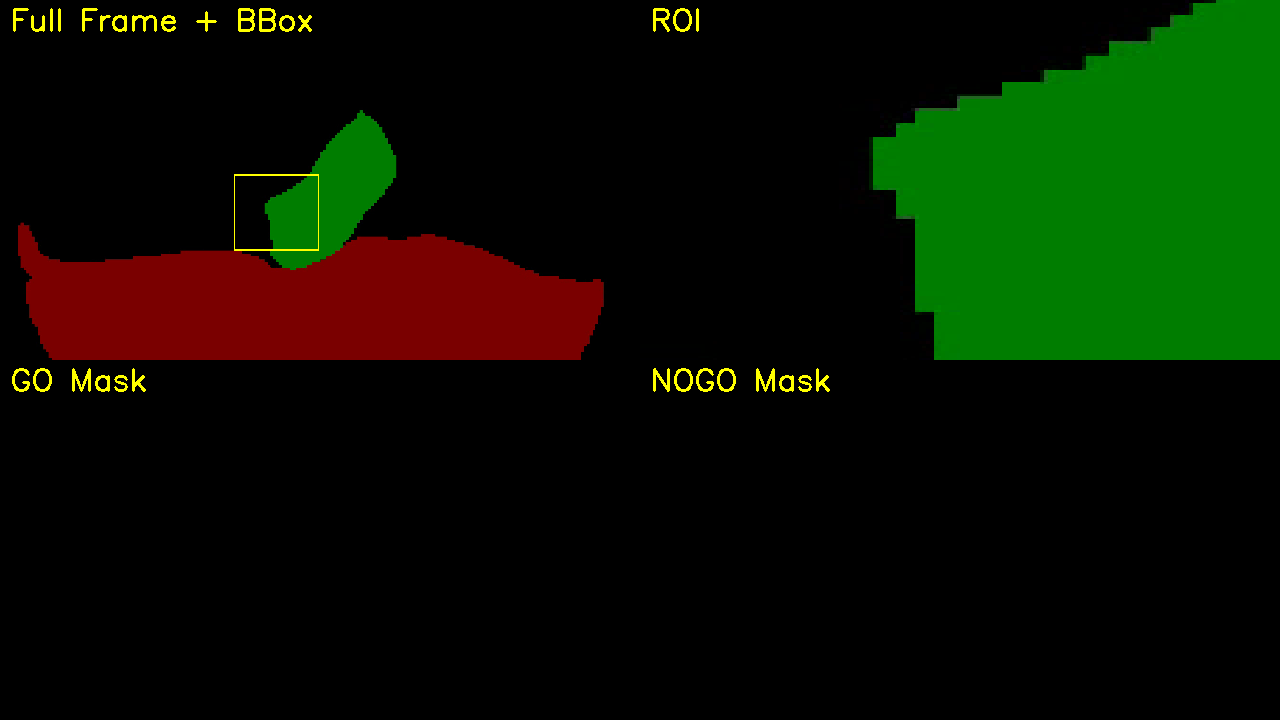
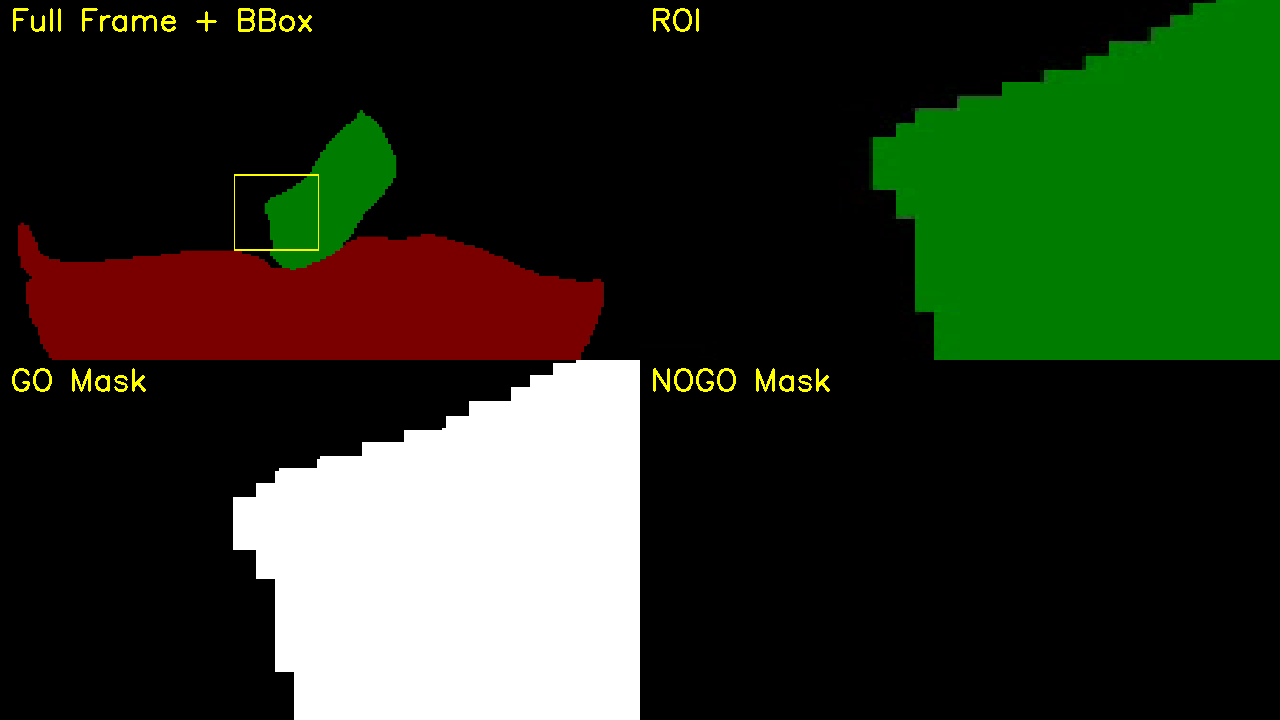
update

Changed region(s): [[0.1562, 0.4889, 0.5, 1.0]]

diff --git a/remake/debug_gng_analysis.py b/remake/debug_gng_analysis.py
@@ -7,6 +7,7 @@ import os
 import cv2
 import numpy as np
 
+
 def visualize_frame_analysis(json_path, gng_video_path, frame_to_debug):
     """_summary_
 
@@ -15,15 +16,20 @@ def visualize_frame_analysis(json_path, gng_video_path, frame_to_debug):
         gng_video_path (_type_): _description_
         frame_to_debug (_type_): _description_
     """
-    # BGR color values from user
-    GO_COLOR = np.array([19, 105, 6])
-    NOGO_COLOR = np.array([15, 22, 134])
+    # Define HSV color ranges for green and red
+    LOWER_GREEN_HSV = np.array([40, 100, 50])
+    UPPER_GREEN_HSV = np.array([80, 255, 255])
+    LOWER_RED_HSV1 = np.array([0, 100, 50])
+    UPPER_RED_HSV1 = np.array([10, 255, 255])
+    LOWER_RED_HSV2 = np.array([160, 100, 50])
+    UPPER_RED_HSV2 = np.array([179, 255, 255])
+
     TARGET_WIDTH = 1280
     TARGET_HEIGHT = 720
 
     # 1. Load JSON and find the specific frame's data
     try:
-        with open(json_path, 'r') as f:
+        with open(json_path, "r") as f:
             data = json.load(f)
     except FileNotFoundError:
         print(f"Error: JSON file not found at {json_path}")
@@ -38,7 +44,7 @@ def visualize_frame_analysis(json_path, gng_video_path, frame_to_debug):
                 break
         if bbox_rel:
             break
-    
+
     if not bbox_rel:
         print(f"Error: Frame {frame_to_debug} not found in JSON file.")
         return
@@ -59,60 +65,93 @@ def visualize_frame_analysis(json_path, gng_video_path, frame_to_debug):
     # 3. Perform resizing/padding logic
     gng_native_width = int(cap.get(cv2.CAP_PROP_FRAME_WIDTH))
     gng_native_height = int(cap.get(cv2.CAP_PROP_FRAME_HEIGHT))
-    needs_resize = (gng_native_height != TARGET_HEIGHT or gng_native_width != TARGET_WIDTH)
-    
+    needs_resize = (
+        gng_native_height != TARGET_HEIGHT or gng_native_width != TARGET_WIDTH
+    )
+
     final_gng_frame = None
     if needs_resize:
         aspect_ratio = gng_native_width / gng_native_height
         new_h = TARGET_HEIGHT
         new_w = int(new_h * aspect_ratio)
-        resized = cv2.resize(frame_from_video, (new_w, new_h), interpolation=cv2.INTER_NEAREST)
+        resized = cv2.resize(
+            frame_from_video, (new_w, new_h), interpolation=cv2.INTER_NEAREST
+        )
         canvas = np.zeros((TARGET_HEIGHT, TARGET_WIDTH, 3), dtype=np.uint8)
         x_offset = (TARGET_WIDTH - new_w) // 2
-        canvas[:, x_offset:x_offset+new_w] = resized
+        canvas[:, x_offset : x_offset + new_w] = resized
         final_gng_frame = canvas
     else:
         final_gng_frame = frame_from_video
 
     # 4. Perform analysis
-    x = int(bbox_rel['x'] * TARGET_WIDTH)
-    y = int(bbox_rel['y'] * TARGET_HEIGHT)
-    w = int(bbox_rel['w'] * TARGET_WIDTH)
-    h = int(bbox_rel['h'] * TARGET_HEIGHT)
-    
-    bbox_roi = final_gng_frame[y:y+h, x:x+w]
-    
-    go_mask = cv2.inRange(bbox_roi, GO_COLOR, GO_COLOR)
-    nogo_mask = cv2.inRange(bbox_roi, NOGO_COLOR, NOGO_COLOR)
+    x = int(bbox_rel["x"] * TARGET_WIDTH)
+    y = int(bbox_rel["y"] * TARGET_HEIGHT)
+    w = int(bbox_rel["w"] * TARGET_WIDTH)
+    h = int(bbox_rel["h"] * TARGET_HEIGHT)
+
+    bbox_roi = final_gng_frame[y : y + h, x : x + w]
+
+    # Convert ROI to HSV and create masks
+    hsv_roi = cv2.cvtColor(bbox_roi, cv2.COLOR_BGR2HSV)
+    go_mask = cv2.inRange(hsv_roi, LOWER_GREEN_HSV, UPPER_GREEN_HSV)
+    red_mask1 = cv2.inRange(hsv_roi, LOWER_RED_HSV1, UPPER_RED_HSV1)
+    red_mask2 = cv2.inRange(hsv_roi, LOWER_RED_HSV2, UPPER_RED_HSV2)
+    nogo_mask = cv2.bitwise_or(red_mask1, red_mask2)
 
     go_pixels = cv2.countNonZero(go_mask)
     nogo_pixels = cv2.countNonZero(nogo_mask)
-    
+
     print(f"--- Debugging Frame {frame_to_debug} ---")
     print(f"Bounding Box (x,y,w,h): ({x}, {y}, {w}, {h})")
     print(f"ROI Shape: {bbox_roi.shape}")
-    print(f"GO color (BGR): {GO_COLOR}, Pixels found: {go_pixels}")
-    print(f"NOGO color (BGR): {NOGO_COLOR}, Pixels found: {nogo_pixels}")
+    print(f"Using HSV ranges for detection.")
+    print(f"GO pixels found: {go_pixels}")
+    print(f"NOGO pixels found: {nogo_pixels}")
 
     # 5. Create visualization
     vis_main = final_gng_frame.copy()
-    cv2.rectangle(vis_main, (x, y), (x+w, y+h), (0, 255, 255), 2) # Yellow box
+    cv2.rectangle(vis_main, (x, y), (x + w, y + h), (0, 255, 255), 2)  # Yellow box
 
     vis_h, vis_w = TARGET_HEIGHT // 2, TARGET_WIDTH // 2
-    
-    vis_main_small = cv2.resize(vis_main, (vis_w, vis_h), interpolation=cv2.INTER_NEAREST)
-    cv2.putText(vis_main_small, "Full Frame + BBox", (10, 30), cv2.FONT_HERSHEY_SIMPLEX, 1, (0, 255, 255), 2)
+
+    vis_main_small = cv2.resize(
+        vis_main, (vis_w, vis_h), interpolation=cv2.INTER_NEAREST
+    )
+    cv2.putText(
+        vis_main_small,
+        "Full Frame + BBox",
+        (10, 30),
+        cv2.FONT_HERSHEY_SIMPLEX,
+        1,
+        (0, 255, 255),
+        2,
+    )
 
     vis_roi = cv2.resize(bbox_roi, (vis_w, vis_h), interpolation=cv2.INTER_NEAREST)
     cv2.putText(vis_roi, "ROI", (10, 30), cv2.FONT_HERSHEY_SIMPLEX, 1, (0, 255, 255), 2)
 
     vis_go_mask = cv2.cvtColor(go_mask, cv2.COLOR_GRAY2BGR)
-    vis_go_mask = cv2.resize(vis_go_mask, (vis_w, vis_h), interpolation=cv2.INTER_NEAREST)
-    cv2.putText(vis_go_mask, "GO Mask", (10, 30), cv2.FONT_HERSHEY_SIMPLEX, 1, (0, 255, 255), 2)
+    vis_go_mask = cv2.resize(
+        vis_go_mask, (vis_w, vis_h), interpolation=cv2.INTER_NEAREST
+    )
+    cv2.putText(
+        vis_go_mask, "GO Mask", (10, 30), cv2.FONT_HERSHEY_SIMPLEX, 1, (0, 255, 255), 2
+    )
 
     vis_nogo_mask = cv2.cvtColor(nogo_mask, cv2.COLOR_GRAY2BGR)
-    vis_nogo_mask = cv2.resize(vis_nogo_mask, (vis_w, vis_h), interpolation=cv2.INTER_NEAREST)
-    cv2.putText(vis_nogo_mask, "NOGO Mask", (10, 30), cv2.FONT_HERSHEY_SIMPLEX, 1, (0, 255, 255), 2)
+    vis_nogo_mask = cv2.resize(
+        vis_nogo_mask, (vis_w, vis_h), interpolation=cv2.INTER_NEAREST
+    )
+    cv2.putText(
+        vis_nogo_mask,
+        "NOGO Mask",
+        (10, 30),
+        cv2.FONT_HERSHEY_SIMPLEX,
+        1,
+        (0, 255, 255),
+        2,
+    )
 
     top_row = cv2.hconcat([vis_main_small, vis_roi])
     bottom_row = cv2.hconcat([vis_go_mask, vis_nogo_mask])
@@ -124,11 +163,23 @@ def visualize_frame_analysis(json_path, gng_video_path, frame_to_debug):
 
     cap.release()
 
+
 if __name__ == "__main__":
-    parser = argparse.ArgumentParser(description="Debug GNG analysis for a single frame.")
-    parser.add_argument('--filtered_json', required=True, help='Path to the filtered JSON file.')
-    parser.add_argument('--gng_video', required=True, help='Path to the GO/NOGO video file.')
-    parser.add_argument('--frame_number', required=True, type=int, help='The specific frame number to debug.')
+    parser = argparse.ArgumentParser(
+        description="Debug GNG analysis for a single frame."
+    )
+    parser.add_argument(
+        "--filtered_json", required=True, help="Path to the filtered JSON file."
+    )
+    parser.add_argument(
+        "--gng_video", required=True, help="Path to the GO/NOGO video file."
+    )
+    parser.add_argument(
+        "--frame_number",
+        required=True,
+        type=int,
+        help="The specific frame number to debug.",
+    )
     args = parser.parse_args()
 
     visualize_frame_analysis(args.filtered_json, args.gng_video, args.frame_number)
